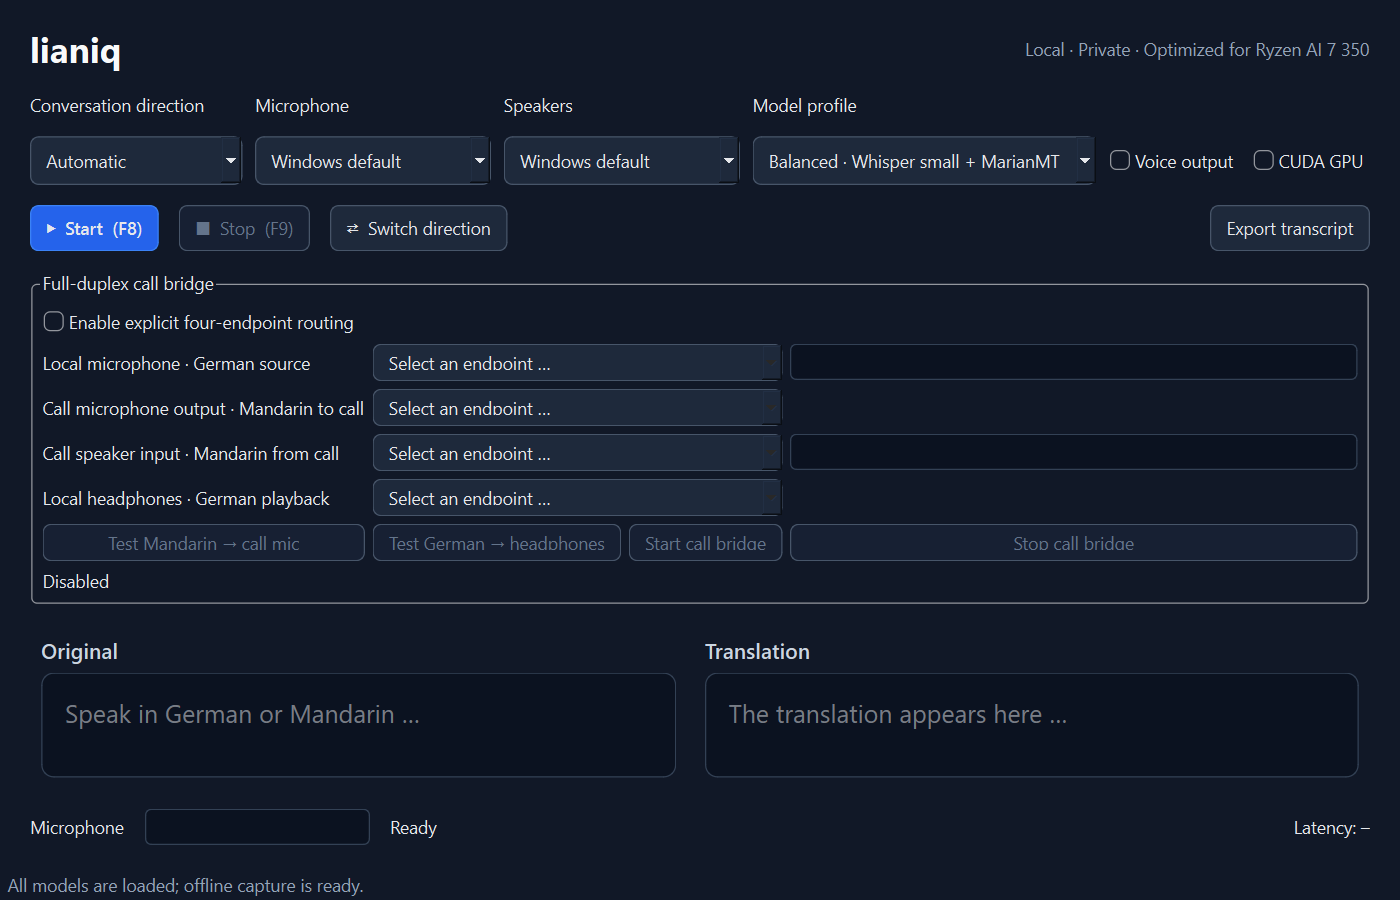
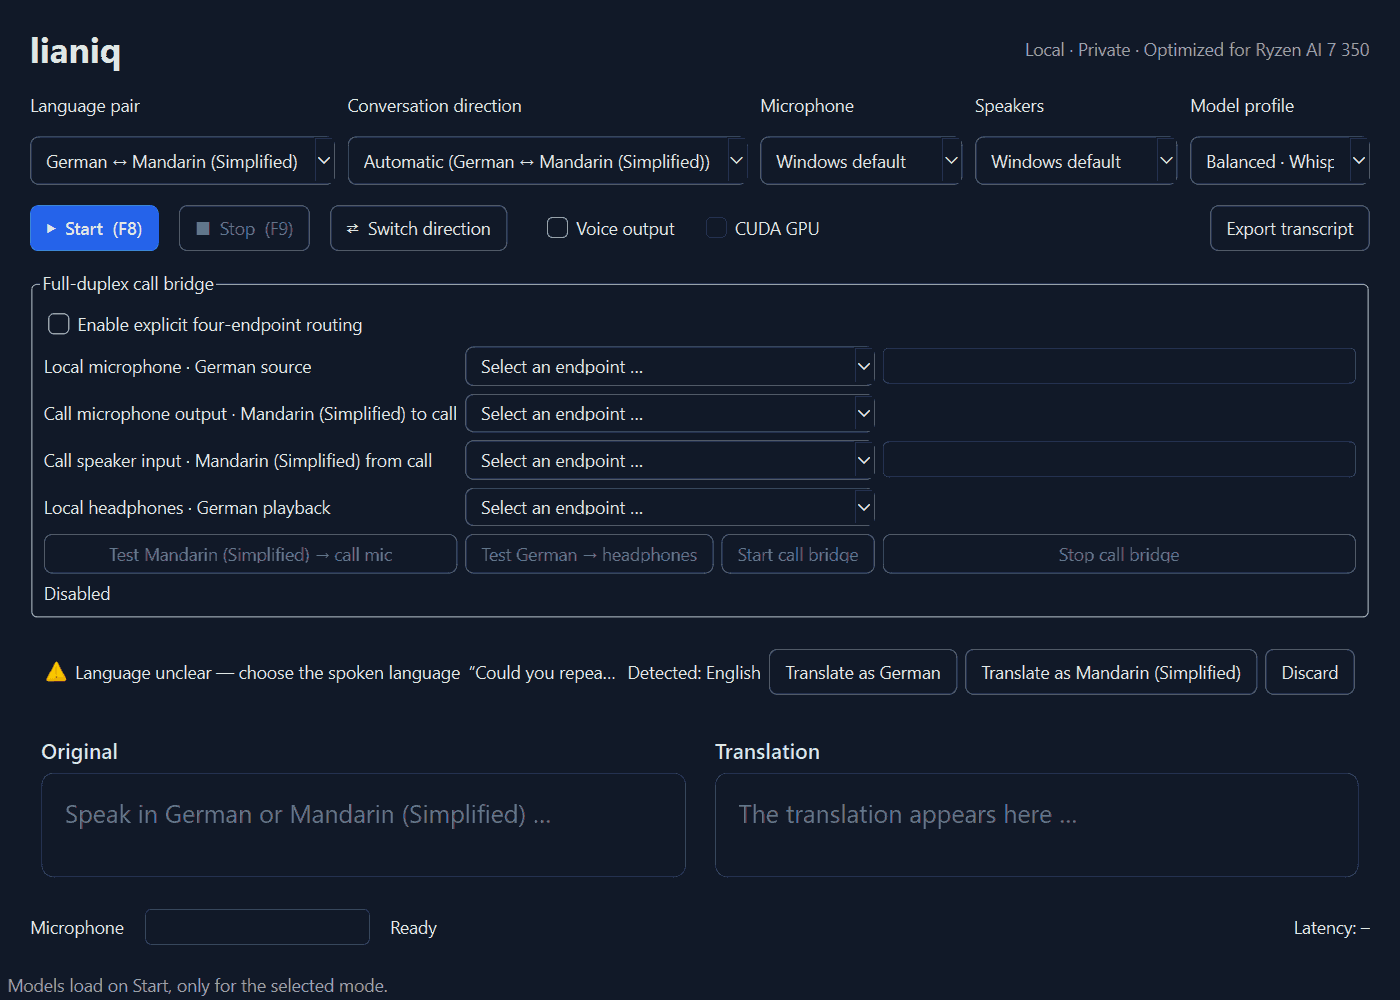
docs: refresh README screenshot and contributor guides after CAP-0169 (#86)
Re-capture the README screenshot with the language-pair selector, a
synthetic held turn, and Voice output / CUDA in the action row; refresh
AGENTS.md, CONTRIBUTING.md, README caption and the PR template for the
language registry, settings v2, sherpa-onnx voices and Gateway-only
publishing.

Review wave: 2/2
Review-Receipt-SHA256: 8b13f37f12396b0a773ff7a21b3375d52493f421cf971ab109d97a9ff93797f3

diff --git a/scripts/capture_readme_screenshot.py b/scripts/capture_readme_screenshot.py
@@ -3,7 +3,9 @@ from __future__ import annotations
 import argparse
 import os
 import sys
+from datetime import UTC, datetime
 from pathlib import Path
+from uuid import UUID
 
 os.environ.setdefault("QT_OPENGL", "software")
 os.environ.setdefault("QT_QUICK_BACKEND", "software")
@@ -12,9 +14,12 @@ os.environ.setdefault("QT_SCALE_FACTOR", "1")
 from lianiq.audio.devices import AudioDevice
 from lianiq.audio.endpoints import EndpointInventory
 from lianiq.config import AppConfig
+from lianiq.conversation.routing import HeldTurn
+from lianiq.domain import Transcript
 from lianiq.languages import (
     BUILTIN_REGISTRY,
     CapabilityCatalog,
+    LanguageId,
     ReadinessProbe,
     ReadinessStatus,
 )
@@ -24,6 +29,20 @@ ROOT = Path(__file__).resolve().parent.parent
 DEFAULT_OUTPUT = ROOT / "docs" / "assets" / "application-ui.png"
 # Generic, host-independent devices; the public screenshot never enumerates real hardware.
 GENERIC_DEVICES = (AudioDevice(0, "Microphone", 1, 0), AudioDevice(1, "Speakers", 0, 2))
+CAPTURE_HEIGHT = 800
+# A synthetic held turn (spoken language outside the pair) so the held-turn bar is shown.
+SAMPLE_HELD_TURN = HeldTurn(
+    turn_id=UUID(int=0),
+    captured_at=datetime(2026, 1, 1, tzinfo=UTC),
+    transcript=Transcript(
+        text="Could you repeat the last sentence, please?",
+        language=LanguageId("en"),
+        probability=0.93,
+        duration_seconds=2.4,
+        engine_language_code="en",
+    ),
+    reason="out_of_pair",
+)
 
 
 class _ReadyRecognizer:
@@ -91,7 +110,12 @@ def main(argv: list[str] | None = None) -> int:
         window = main_window_module.MainWindow(
             config, build_screenshot_pipeline(config), persist_settings=False
         )
+        # Taller than the default so the held-turn bar does not compress the other rows.
+        window.resize(window.width(), max(window.height(), CAPTURE_HEIGHT))
         window.show()
+        window.held_turn_bar.set_held(
+            [SAMPLE_HELD_TURN], BUILTIN_REGISTRY.pair(*config.languages.pair)
+        )
         QTest.qWait(500)
         application.processEvents()
 

diff --git a/tests/ui/test_capture_readme_screenshot.py b/tests/ui/test_capture_readme_screenshot.py
@@ -65,3 +65,28 @@ def test_screenshot_pipeline_reports_the_default_pair_ready_without_loading_mode
     finally:
         window.close()
     assert pipeline.recognizer is not None and pipeline.synthesizer is None
+
+
+def test_screenshot_shows_the_sample_held_turn_with_one_button_per_pair_member(
+    tmp_path, monkeypatch
+) -> None:
+    pytest.importorskip("PySide6")
+    from PySide6.QtWidgets import QApplication
+
+    import lianiq.ui.main_window as main_window_module
+
+    QApplication.instance() or QApplication([])
+    capture = load_capture_module()
+    shown = []
+    original_close = main_window_module.MainWindow.close
+
+    def record_and_close(window):
+        bar = window.held_turn_bar
+        shown.append((bar.isVisible(), bar.turn, sorted(bar.translate_buttons)))
+        return original_close(window)
+
+    monkeypatch.setattr(main_window_module.MainWindow, "close", record_and_close)
+
+    assert capture.main(["--output", str(tmp_path / "application-ui.png")]) == 0
+
+    assert shown == [(True, capture.SAMPLE_HELD_TURN, ["de", "zh-Hans"])]

diff --git a/CONTRIBUTING.md b/CONTRIBUTING.md
@@ -30,7 +30,10 @@ acceptance criteria, delivery authority, dependencies, and evidence route. Follo
 [Definition of Done](docs/sdlc/definition-of-done.md), and
 [Native Windows Evidence Profile](docs/sdlc/native-windows-evidence-profile.md).
 Canonical factory guidance is consumed from the current `app-shared` source named in
-the adoption baseline. SDLC-03 registration remains blocked by [#40](https://github.com/boris-heuer/lianiq/issues/40); do not invent local catalog/configuration substitutes.
+the adoption baseline. Canonical product and capability artefacts (specifications, work
+items, the integration contract) live in
+[`app-shared/docs/products/lianiq/`](https://github.com/boris-heuer/app-shared/tree/main/docs/products/lianiq);
+do not invent local catalog/configuration substitutes.
 
 For every applicable acceptance criterion, retain the reviewed tree and exact
 commit/build identity, local-check result, independent review, required CI, and real
@@ -53,14 +56,53 @@ After it has created `.venv`, run:
 Add a failing deterministic test before changing behavior where practical. Hardware, virtual-cable,
 and call-application checks are operator evidence; do not replace them with a simulated pass.
 
+These checks run without a microphone or audio device:
+
+```powershell
+.\.venv\Scripts\python.exe .\scripts\doctor.py
+.\.venv\Scripts\python.exe .\scripts\call_bridge_self_test.py --synthetic
+```
+
+The doctor never downloads anything; without provisioned models it lists each missing model and
+exits with code 1. The synthetic Call Bridge self-test needs no models. After
+`scripts/download_models.py` has provisioned the models, `scripts/self_test.py` runs both language
+directions through the real models, and `scripts/ui_self_test.py` runs one German turn end to end
+through the real window. After a visible UI
+change, regenerate the README screenshot with `scripts/capture_readme_screenshot.py`; it uses
+generic devices and a synthetic held turn, and loads no models. Commit the image as a 32-colour
+palette PNG (for example Pillow `quantize(colors=32, method=Image.Quantize.FASTOCTREE,
+dither=Image.Dither.NONE)`, saved with `optimize=True`) so it stays below the 32 KiB per-file
+publishing limit.
+
+## Languages, settings, and voices
+
+- Languages are identified by BCP 47 language IDs from the built-in registry in
+  `lianiq/languages/registry.py`. Do not hard-code language IDs, direction keys, or labels
+  elsewhere in `lianiq/`; `tests/test_no_hardcoded_languages.py` fails on them. A language is
+  selectable only when it is qualified in the registry; adding one is a capability change that
+  starts in the canonical specification, not here.
+- Settings use schema v2 (`"schema_version": 2`). A settings change updates `lianiq/config.py`,
+  `config/settings.json`, and, when a v1 value maps to it, `lianiq/config_migration.py` with a
+  migration test. Migration must stay lossless and must fail without writing when a value cannot
+  be mapped.
+- Translation models are configured per directed edge (`"<source>><target>"`); never derive a
+  reverse edge. Voices are configured per language ID in `tts.voices`, and `tts.engines` selects
+  Piper or sherpa-onnx per language.
+- A new or changed model is pinned in `scripts/download_models.py` (revision or archive size and
+  SHA-256), recorded in `models/model-manifest.json` by that script, and listed with its licence in
+  [MODEL_LICENSES.md](MODEL_LICENSES.md).
+
 ## Pull requests
 
-Explain the problem, the safety/privacy impact, and the checks run. Update user documentation when
-commands, configuration, routing, or limitations change. Keep downloaded models out of the change
+CI runs `pip check`, ruff, the Markdown link check, pytest, and a wheel build with a package
+smoke test on Windows with Python 3.12. Explain the problem, the safety/privacy impact, and the
+checks run. Update user documentation when commands, configuration, routing, or limitations
+change. Keep downloaded models out of the change
 unless explicitly requested.
 
-Use the root [agent instructions](AGENTS.md) for the fresh-session owner and
-evidence route. Questions and decisions return to the originating parent/operator
+Use the root [agent instructions](AGENTS.md) for the fresh-session owner,
+evidence route, and publishing route (Factory SCM Gateway only, with its 32 KiB per-file write
+limit). Questions and decisions return to the originating parent/operator
 chat. Use GPT-5.6 Terra with medium reasoning and only the minimum necessary
 independent review.
 

diff --git a/AGENTS.md b/AGENTS.md
@@ -23,7 +23,32 @@ stack.
    and [PR workflow](https://github.com/boris-heuer/app-shared/blob/main/repo-config/dev-guides/pr-workflow.md)
    for review, CI, merge, and completion evidence.
 
-Canonical capability registration remains blocked until SDLC-03 ([#40](https://github.com/boris-heuer/lianiq/issues/40)) resolves its factory consumer-admission dependency. Do not create a local catalog, capability folder, or `factory.config` as a workaround. Artifact-only adoption work owned by [#37](https://github.com/boris-heuer/lianiq/issues/37) may use its issue and the adoption baseline; runtime feature dispatch under [#20](https://github.com/boris-heuer/lianiq/issues/20) waits for coherent canonical owner/spec mapping.
+Lianiq is registered as a factory product (SDLC-03,
+[#40](https://github.com/boris-heuer/lianiq/issues/40), closed). Canonical product and
+capability artefacts — `product.md`, the product capability model, the integration
+contract, and one folder per capability (for example `language-pair-contract`, CAP-0169) —
+live in
+[`app-shared/docs/products/lianiq/`](https://github.com/boris-heuer/app-shared/tree/main/docs/products/lianiq).
+Specifications, work items, and contract changes are made there, not in this repository.
+Do not create a local catalog, capability folder, or `factory.config`. This repository
+owns the runtime source, tests, user documentation, and app-specific evidence.
+
+## Code map
+
+- `lianiq/languages/`: the built-in language registry (BCP 47 language IDs, qualified and
+  planned languages), language pairs, directed capabilities, usage-mode requirements, and
+  readiness. Language IDs and edge keys are not hard-coded elsewhere in `lianiq/`;
+  `tests/test_no_hardcoded_languages.py` enforces this and its docstring lists the few
+  permitted exceptions.
+- `lianiq/config.py` and `lianiq/config_migration.py`: settings schema v2 (`languages`,
+  `translation.edges`, `tts.voices`, `tts.engines`) and the lossless v1 migration.
+- `lianiq/conversation/routing.py`: pair-scoped turn routing and held turns.
+- `lianiq/stt/`, `lianiq/translation/`, `lianiq/tts/`: Faster-Whisper, MarianMT per
+  directed edge, and voices per language (Piper, sherpa-onnx, selected by `voice_router`).
+- `lianiq/call_bridge/` and `lianiq/audio/`: the experimental Call Bridge and audio I/O.
+- `lianiq/ui/`: the PySide6 window, held-turn bar, and accessibility names.
+- `scripts/download_models.py` and `models/model-manifest.json`: pinned model provisioning;
+  record model licences in [MODEL_LICENSES.md](MODEL_LICENSES.md).
 
 ## Delivery rules
 
@@ -40,11 +65,20 @@ Canonical capability registration remains blocked until SDLC-03 ([#40](https://g
   of Done; missing required evidence leaves the work open.
 - Route every question or decision to the originating parent/operator chat. Do not
   redirect it to a separate agent chat.
+- Publish branches, commits, pull requests, and merges only through the Factory SCM
+  Gateway (squash auto-merge pinned to the reviewed head). Do not use `git push`, the
+  `gh` CLI, another GitHub integration, or a direct merge. The Gateway writes at most
+  32 KiB (decoded) per file; a larger file, such as `lianiq/ui/main_window.py`, needs
+  explicit operator approval for that file. On an unknown outcome, read the state back
+  before acting; never retry automatically.
+- Before the first commit, an independent reviewer reviews the frozen staged tree; record
+  the review receipt as the PR workflow requires.
 
 ## Fresh-session walkthrough
 
-From this file, open the assigned issue, then the adoption baseline and Definition
-of Done. Resolve canonical ownership at the linked current `app-shared` guidance;
-then follow the issue's evidence route. The pull-request template repeats the
-required evidence record. This guidance does not authorize hooks, MCP, credentials,
-system configuration, or runtime changes.
+From this file, open the assigned issue or canonical work item, then the adoption
+baseline and Definition of Done. Resolve canonical ownership at the linked current
+`app-shared` guidance and the product folder above; then follow the evidence route.
+The development commands are in [CONTRIBUTING.md](CONTRIBUTING.md#development-checks).
+The pull-request template repeats the required evidence record. This guidance does not
+authorize hooks, MCP, credentials, system configuration, or runtime changes.

diff --git a/.github/pull_request_template.md b/.github/pull_request_template.md
@@ -18,7 +18,7 @@ Describe the user problem and the change.
 - [ ] Remaining gaps include cause, impact, responsible actor, and exact unblock action
 - [ ] Artifact completion, code verification, and runtime SystemOK are reported separately; this PR does not claim runtime SystemOK without the required profile evidence
 
-Follow the [binding Definition of Done](https://github.com/boris-heuer/lianiq/blob/main/docs/sdlc/definition-of-done.md), [native Windows evidence profile](https://github.com/boris-heuer/lianiq/blob/main/docs/sdlc/native-windows-evidence-profile.md), and [current canonical factory ownership guidance](https://github.com/boris-heuer/app-shared/blob/main/repo-config/skills/implement-capability/references/repo-ownership-routing.md). Canonical registration remains pending [#40](https://github.com/boris-heuer/lianiq/issues/40); this template does not authorize a local substitute.
+Follow the [binding Definition of Done](https://github.com/boris-heuer/lianiq/blob/main/docs/sdlc/definition-of-done.md), [native Windows evidence profile](https://github.com/boris-heuer/lianiq/blob/main/docs/sdlc/native-windows-evidence-profile.md), and [current canonical factory ownership guidance](https://github.com/boris-heuer/app-shared/blob/main/repo-config/skills/implement-capability/references/repo-ownership-routing.md). Canonical product and capability artefacts live in [`app-shared/docs/products/lianiq/`](https://github.com/boris-heuer/app-shared/tree/main/docs/products/lianiq); this template does not authorize a local substitute.
 
 ## Safety and privacy
 

diff --git a/README.md b/README.md
@@ -24,9 +24,11 @@ application screenshot or a performance claim.
 
 ![Sanitized lianiq application window with the experimental Call Bridge disabled](docs/assets/application-ui.png)
 
-This screenshot is captured from the Windows application with generic device selections, empty
-transcript panels, and the experimental Call Bridge disabled. It demonstrates the current UI only;
-it is not evidence that the hardware, latency, reconnect, or real-call acceptance gates passed.
+This screenshot is captured from the Windows application by `scripts/capture_readme_screenshot.py`
+with generic device selections, empty transcript panels, a synthetic held turn in the held-turn bar,
+and the experimental Call Bridge disabled. It shows the language pair selector, **Voice output** and
+**CUDA GPU** in the action row, and the held-turn choices. It demonstrates the current UI only; it
+is not evidence that the hardware, latency, reconnect, or real-call acceptance gates passed.
 
 ## Reference system and portability
 
